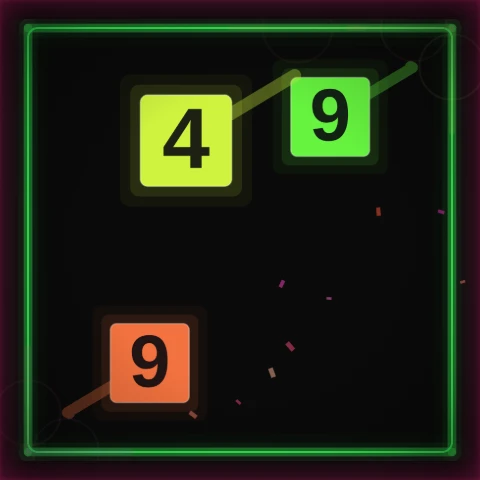
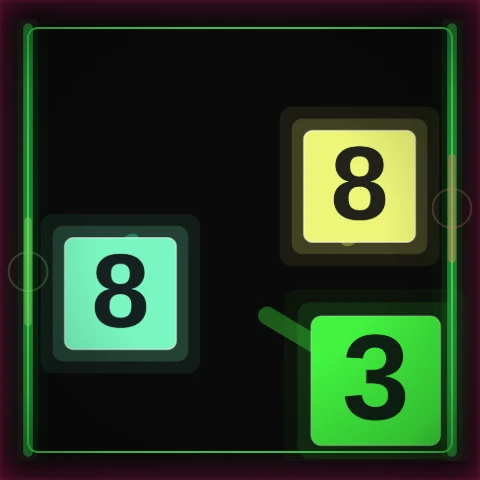
Lane E (E4): the Bouncing Shapes card opens the start look's bigger shapes too, its picture shows them, and a shape at zero pops without a ring wider than the box
Claude-Session: https://claude.ai/code/session_01NrKo2mU7NX58bzppBNHo2x

diff --git a/src/lib/thumbnails/heroMoments.ts b/src/lib/thumbnails/heroMoments.ts
@@ -50,7 +50,7 @@ export const HERO_MOMENTS: Record<ModeId, HeroMoment> = {
   colorMatch: { moment: "a colour match shattering a segment of the ring", query: "r=11&wt=5&tt=1.6&cms=12&cmc=7&s=400" /* --- clip-pacing --- (as picked: twelve segments in seven colours at speed 400) */, seed: 1, atSec: 16, camera: { zoom: 1.1 }, tint: "#ffb703", card: "r=11&wt=5&tt=1.6" /* --- card-looks --- (the page's eight segments in three colours: 7 of 8 by 27 s, the picture's 0 of 8; seed 1 out at 13.6 s) */ },
   grow: { moment: "the ball warmed to amber a bounce from filling its ring, the meter round the rim nearly closed, its hit markers fading", query: "gLaw=multiply&gFill=finish&gStep=4&gStart=15&gHue=1&gMark=1&gPitch=1" /* --- review fix (B5) --- (the studio's start look: seed 1 full at 20.2 s; the old picture's link never filled) */, seed: 1, atSec: 19.6, tint: "#93d119" },
   drop: { moment: "balls raining through the coloured pegs", query: "dbc=16&dsi=0.2&dsv=0.7", seed: 1, atSec: 4, tint: "#4cc9f0" },
-  box: { moment: "fat squares mid-polyrhythm, the wall they just hit lit up", query: "s=575&bxn=4&bxa=1&bxgr=3&bxr=4:5:6" /* --- box-finale --- (Lane E, E4: the start look's pace) */, seed: 1, atSec: 17, tint: "#f72585" /* --- card-looks --- --- box-finale --- (the picture's square box and fat squares at the start look's pace, the last two ending on corners: 0 by 27 s on 8 of 8, 19.1–24.7 s; seed 1 at 24.3 s. The tall box with the finale ran 22.0–30.8 s, seed 1 at 29.9 s) */ },
+  box: { moment: "fat squares mid-polyrhythm, the wall they just hit lit up", query: "s=575&r=11&bxn=4&bxa=1&bxgr=3&bxr=4:5:6" /* --- box-finale --- (Lane E, E4: the start look's pace and shape size) */, seed: 1, atSec: 17, tint: "#f72585" /* --- card-looks --- --- box-finale --- (the picture's square box and fat squares at the start look's pace and size, the last two ending on corners: 0 by 27 s on 8 of 8 in both worlds, 17.7–22.9 s; seed 1 at 22.5 s. The tall box with the finale ran 22.0–30.8 s, seed 1 at 29.9 s) */ },
   pendulum: { moment: "the pendulum wave in a perfect fan", query: "pwn=20&pwk=24&pwt=40&pwtr=0.5", seed: 1, atSec: 1, tint: "#9d4edd", card: "pwn=20&pwtr=0.5" /* --- card-looks --- (the page's 24 s cycle: IN LINE! at 24.0 s, the picture's at 40.0 s) */ },
   polyrhythm: { moment: "sixteen voices fanned out along their chords in a rainbow wave", query: "prl=arcs&prcs=30" /* --- clip-pacing --- (as picked: the 30 s cycle) */, seed: 1, atSec: 3, tint: "#3ddc97", card: "prl=arcs" /* --- card-looks --- (the page's 24 s cycle: IN PHASE! at 24.0 s, the picture's at the 30 s clip's last frame) */ },
   collide: { moment: "squishy orbs colliding in the circle", query: "cpsq=1&cpn=60", seed: 1, atSec: 6, tint: "#80ffdb" },

diff --git a/src/components/simulator/boxRenderer.ts b/src/components/simulator/boxRenderer.ts
@@ -202,13 +202,13 @@ function drawBurst(ctx: CanvasRenderingContext2D, view: BoxView, ball: Ball, hw:
     ctx.translate(ball.x, ball.y);
     ctx.globalAlpha = 1 - t;
     ctx.fillStyle = `hsl(${hue}, 90%, ${Math.round(85 - 20 * t)}%)`;
-    shapePath(ctx, shape, hw * (1 + 0.6 * t), hh * (1 + 0.6 * t));
+    shapePath(ctx, shape, hw * (1 + 0.35 * t), hh * (1 + 0.35 * t));
     ctx.fill();
     ctx.globalAlpha = 0.8 * (1 - t);
     ctx.strokeStyle = "#ffffff";
     ctx.lineWidth = 2;
     ctx.beginPath();
-    ctx.arc(0, 0, Math.max(hw, hh) * (1.2 + 2.4 * t), 0, TWO_PI);
+    ctx.arc(0, 0, Math.max(hw, hh) * (1.2 + 1.4 * t), 0, TWO_PI);
     ctx.stroke();
     ctx.translate(-ball.x, -ball.y);
   }

diff --git a/README.md b/README.md
@@ -2629,7 +2629,7 @@ daily card) shows its mode at its **hero moment** – mid-action, with the payof
 | `colorMatch` | a colour match shattering a segment of the ring | 1 | 16 s | `r=11&wt=5&tt=1.6` | zoom 1.1 |
 | `grow` | the ball warmed to amber a bounce from filling its ring, the meter round the rim nearly closed, its hit markers fading | 1 | 19.6 s | `gLaw=multiply&gFill=finish&gStep=4&gStart=15&gHue=1&gMark=1&gPitch=1` | – |
 | `drop` | balls raining through the coloured pegs | 1 | 4 s | `dbc=16&dsi=0.2&dsv=0.7` | – |
-| `box` | fat squares mid-polyrhythm, the wall they just hit lit up | 1 | 17 s | `s=575&bxn=4&bxa=1&bxgr=3&bxr=4:5:6` | – |
+| `box` | fat squares mid-polyrhythm, the wall they just hit lit up | 1 | 17 s | `s=575&r=11&bxn=4&bxa=1&bxgr=3&bxr=4:5:6` | – |
 | `pendulum` | the pendulum wave in a perfect fan | 1 | 1 s | `pwn=20&pwk=24&pwt=40&pwtr=0.5` | – |
 | `polyrhythm` | sixteen voices fanned out along their chords in a rainbow wave | 1 | 3 s | `prl=arcs` | – |
 | `collide` | squishy orbs colliding in the circle | 1 | 6 s | `cpsq=1&cpn=60` | – |
